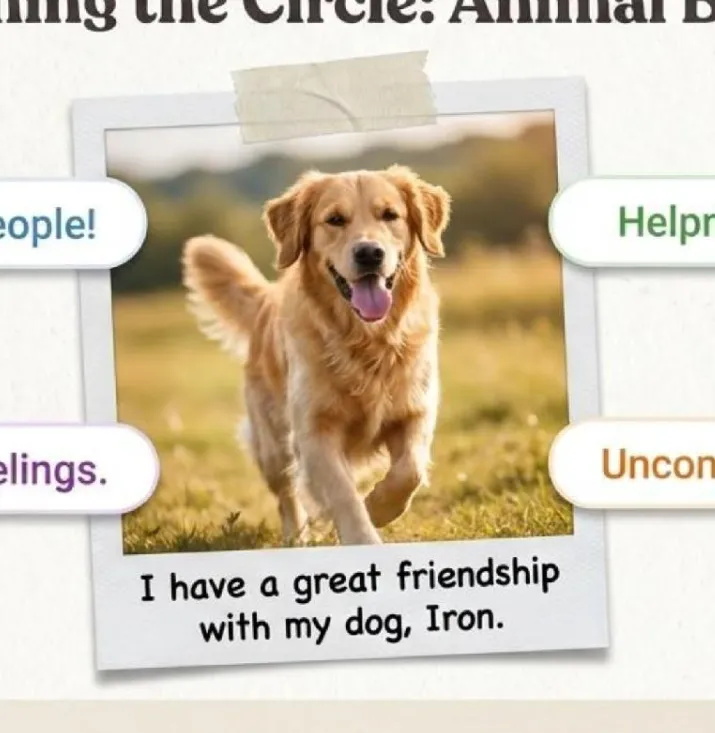
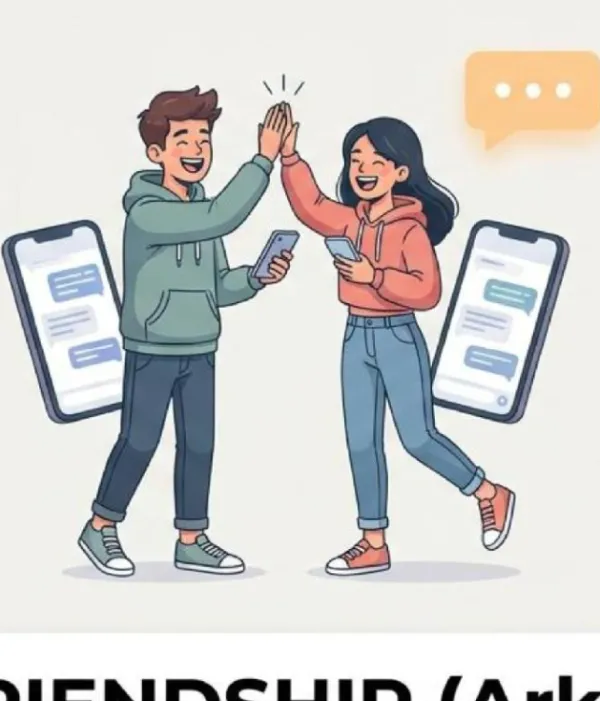
add slide for 8th class

diff --git a/8/slides/un1/grade_8_slide.html b/8/slides/un1/grade_8_slide.html
@@ -201,8 +201,8 @@
                  ertelemesine sebep oluyordu. fetchpriority="high" eklendi çünkü bu
                  muhtemelen sayfanın LCP (en büyük içerik boyama) elemanı. -->
             <div class="card" 
-                 data-embed="https://teachermurat.com/pdfjs/web/viewer.html?file=https://cdn.teachermurat.com/8/un1_slides/01-Grade8_Pre.pdf?v=2"
-                 data-download="https://cdn.teachermurat.com/8/un1_slides/01-Grade8_Pre.pdf?v=2"
+                 data-embed="https://teachermurat.com/pdfjs/web/viewer.html?file=https://cdn.teachermurat.com/8/un1_slides/04-Grade8_Pre.pdf?v=1"
+                 data-download="https://cdn.teachermurat.com/8/un1_slides/04-Grade8_Pre.pdf?v=1"
                  data-title="Slide 1">
                 <img class="card-thumbnail" src="../un1/thumbnails/grade_8_un1_pre1.webp" alt="Slide 1" loading="lazy" decoding="async">
                 <div class="card-body">
@@ -211,15 +211,12 @@
                     <button class="btn open-modal">OPEN</button>
                 </div>
             </div>
-
-            <!-- KART 2 -->
-            <!-- FIX: data-download düzeltildi — önceki kodda yanlışlıkla 1. slide'ın
-                 pdf'ine işaret ediyordu (01-...pdf), şimdi 02-...pdf. -->
+                 <!-- KART 2 -->
             <div class="card" 
-                 data-embed="https://teachermurat.com/pdfjs/web/viewer.html?file=https://cdn.teachermurat.com/8/un1_slides/02-Grade8_Pre.pdf?v=1"
-                 data-download="https://cdn.teachermurat.com/8/un1_slides/02-Grade8_Pre.pdf?v=1"
-                 data-title="Slide 2">
-                <img class="card-thumbnail" src="../un1/thumbnails/grade_8_un1_pre2.webp" alt="Slide 2" loading="lazy" decoding="async">
+                 data-embed="https://teachermurat.com/pdfjs/web/viewer.html?file=https://cdn.teachermurat.com/8/un1_slides/01-Grade8_Pre.pdf?v=2"
+                 data-download="https://cdn.teachermurat.com/8/un1_slides/01-Grade8_Pre.pdf?v=2"
+                 data-title="Slide 1">
+                <img class="card-thumbnail" src="../un1/thumbnails/grade_8_un1_pre2.webp" alt="Slide 1" loading="lazy" decoding="async">
                 <div class="card-body">
                     <h3>Slide 2</h3>
                     <p>UNIT 1 SUMMARY</p>
@@ -228,13 +225,28 @@
             </div>
 
             <!-- KART 3 -->
+            <!-- FIX: data-download düzeltildi — önceki kodda yanlışlıkla 1. slide'ın
+                 pdf'ine işaret ediyordu (01-...pdf), şimdi 02-...pdf. -->
+            <div class="card" 
+                 data-embed="https://teachermurat.com/pdfjs/web/viewer.html?file=https://cdn.teachermurat.com/8/un1_slides/02-Grade8_Pre.pdf?v=1"
+                 data-download="https://cdn.teachermurat.com/8/un1_slides/02-Grade8_Pre.pdf?v=1"
+                 data-title="Slide 2">
+                <img class="card-thumbnail" src="../un1/thumbnails/grade_8_un1_pre3.webp" alt="Slide 2" loading="lazy" decoding="async">
+                <div class="card-body">
+                    <h3>Slide 3</h3>
+                    <p>UNIT 1 SUMMARY</p>
+                    <button class="btn open-modal">OPEN</button>
+                </div>
+            </div>
+
+            <!-- KART 4 -->
             <div class="card" 
                  data-embed="https://teachermurat.com/pdfjs/web/viewer.html?file=https://cdn.teachermurat.com/8/un1_slides/03-Grade8_Pre.pdf?v=1"
                  data-download="https://cdn.teachermurat.com/8/un1_slides/03-Grade8_Pre.pdf?v=1"
                  data-title="Slide 3">
-              <img class="card-thumbnail" src="../un1/thumbnails/grade_8_un1_pre3.webp" alt="Slide 3" loading="lazy" decoding="async">
+              <img class="card-thumbnail" src="../un1/thumbnails/grade_8_un1_pre4.webp" alt="Slide 3" loading="lazy" decoding="async">
                 <div class="card-body">
-                    <h3>Slide 3</h3>
+                    <h3>Slide 4</h3>
                     <p>UNIT 1 SUMMARY</p>
                     <button class="btn open-modal">OPEN</button>
                 </div>
